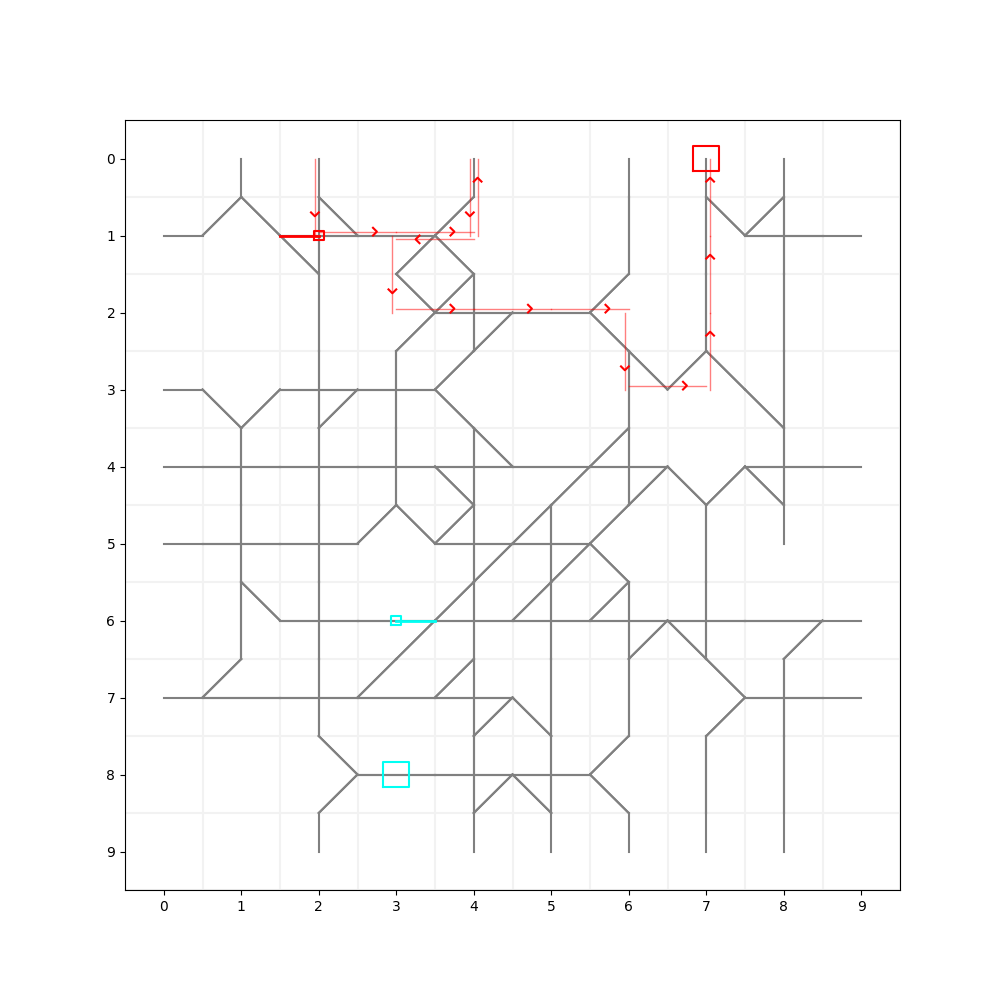
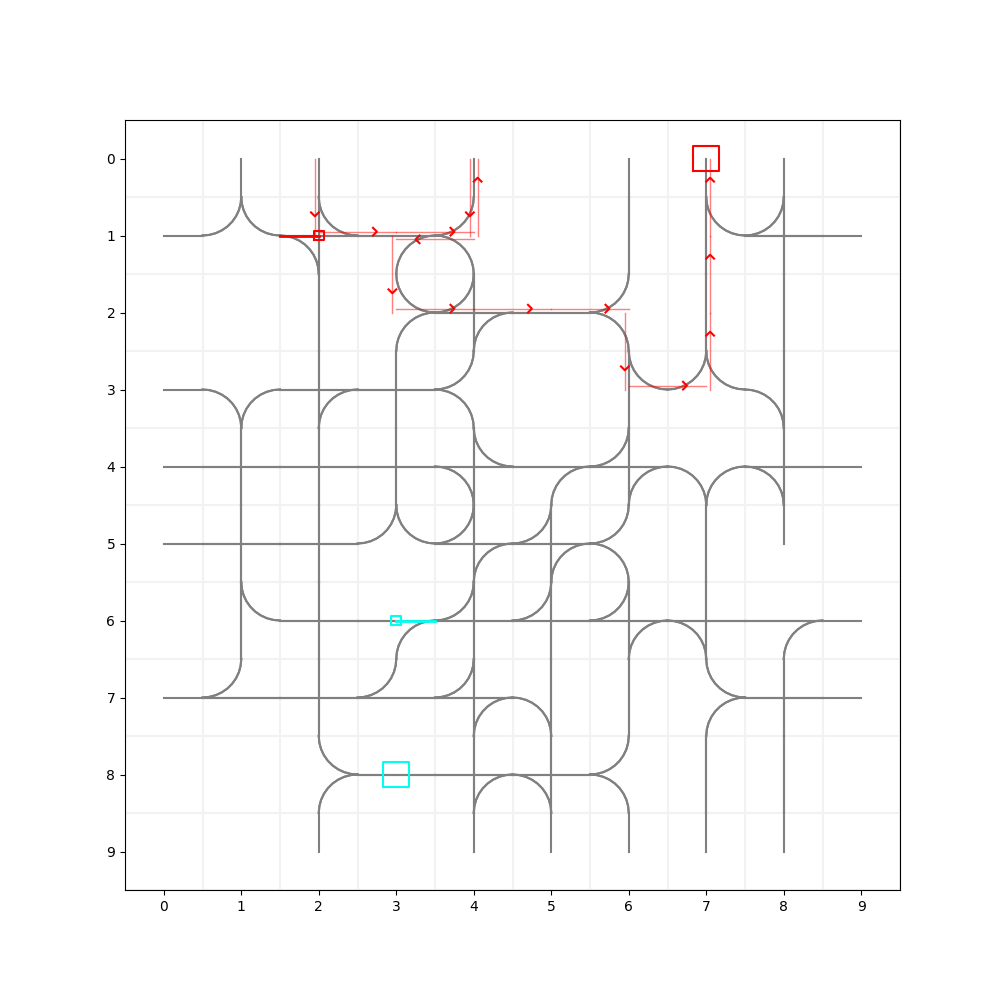
implemented curved transitions

diff --git a/flatland/utils/rendertools.py b/flatland/utils/rendertools.py
@@ -145,6 +145,13 @@ class RenderTool(object):
         plt.scatter(*xyNext, color=sColor)
 
     def plotTrans(self, rcPos, gTransRCAg, color="r", depth=None):
+        """
+        plot the transitions in gTransRCAg at position rcPos.
+        gTransRCAg is a 2d numpy array containing a list of RC transitions,
+        eg [[-1,0], [0,1]] means N, E.
+
+        """
+
         rt = self.__class__
         xyPos = np.matmul(rcPos, rt.grc2xy) + rt.xyHalf
         gxyTrans = xyPos + np.matmul(gTransRCAg, rt.grc2xy/2.4)
@@ -299,7 +306,7 @@ class RenderTool(object):
                 visit = visit.prev
                 xyPrev = xy
 
-    def renderEnv(self, show=False):
+    def renderEnv(self, show=False, curves=True):
         """
         Draw the environment using matplotlib.
         Draw into the figure if provided.
@@ -307,10 +314,16 @@ class RenderTool(object):
         Call pyplot.show() if show==True.
         (Use show=False from a Jupyter notebook with %matplotlib inline)
         """
+
+        # cell_size is a bit pointless with matplotlib - it does not relate to pixels,
+        # so for now I've changed it to 1 (from 10)
         cell_size = 1
 
         # if oFigure is None:
         #    oFigure = plt.figure()
+
+        gTheta = np.linspace(0, np.pi/2, 10)
+        gArc = array([np.cos(gTheta), np.sin(gTheta)]).T  # from [1,0] to [0,1]
 
         def drawTrans(oFrom, oTo, sColor="gray"):
             plt.plot(
@@ -318,6 +331,26 @@ class RenderTool(object):
                 [oFrom[1], oTo[1]],  # y
                 color=sColor
             )
+
+        def drawTrans2(xyLine, xyCentre, rotation, sColor="gray"):
+            """
+            gLine is a numpy 2d array of points,
+            in the plotting space / coords.
+            eg:
+            [[0,.5],[1,0.2]] means a line
+            from x=0, y=0.5
+            to   x=1, y=0.2
+            """
+            xyMid = np.mean(xyLine, axis=0)
+            dxy = xyMid - xyCentre
+            xyCorner = xyMid + dxy
+            dxy2 = xyCentre - xyCorner
+
+            bStraight = rotation in [0, 2]
+            if bStraight:
+                plt.plot(*xyLine.T, color=sColor)
+            else:
+                plt.plot(*(gArc * dxy2 + xyCorner).T, color=sColor)
 
         RETrans = RailEnvTransitions()
         env = self.env
@@ -338,10 +371,10 @@ class RenderTool(object):
             for c in range(env.width):
                 trans_ = env.rail[r][c]
 
-                x0 = cell_size * c
-                x1 = cell_size * (c+1)
-                y0 = cell_size * -r
-                y1 = cell_size * -(r+1)
+                x0 = cell_size * c       # left
+                x1 = cell_size * (c+1)   # right
+                y0 = cell_size * -r      # top
+                y1 = cell_size * -(r+1)  # bottom
 
                 coords = [
                     ((x0+x1)/2.0, y0),  # N middle top
@@ -349,6 +382,8 @@ class RenderTool(object):
                     ((x0+x1)/2.0, y1),  # S middle bottom
                     (x0, (y0+y1)/2.0)   # W middle left
                 ]
+
+                xyCentre = array([x0, y1]) + cell_size / 2
 
                 oCell = env.rail[r, c]
 
@@ -378,15 +413,23 @@ class RenderTool(object):
                         # to_ori = (orientation + 2) % 4
                         for to_ori in range(4):
                             to_xy = coords[to_ori]
+                            rotation = (to_ori - from_ori) % 4
 
-                            if False:
-                                print("r,c,ori: ", r, c, orientation,
-                                      "cell:", "{0:b}".format(oCell),
-                                      "moves:", tMoves,
-                                      "from:", from_ori, from_xy,
-                                      "to: ", to_ori, to_xy)
                             if (tMoves[to_ori]):
-                                drawTrans(from_xy, to_xy)
+                                if curves:
+                                    drawTrans2(array([from_xy, to_xy]), xyCentre, rotation)
+                                else:
+                                    drawTrans(from_xy, to_xy)
+                                if False:
+                                    print(
+                                        "r,c,ori: ", r, c, orientation,
+                                        "cell:", "{0:b}".format(oCell),
+                                        "moves:", tMoves,
+                                        "from:", from_ori, from_xy,
+                                        "to: ", to_ori, to_xy,
+                                        "cen:", *xyCentre,
+                                        "rot:", rotation,
+                                    )
 
         # Draw each agent + its orientation + its target
         cmap = plt.get_cmap('hsv', lut=env.number_of_agents+1)
